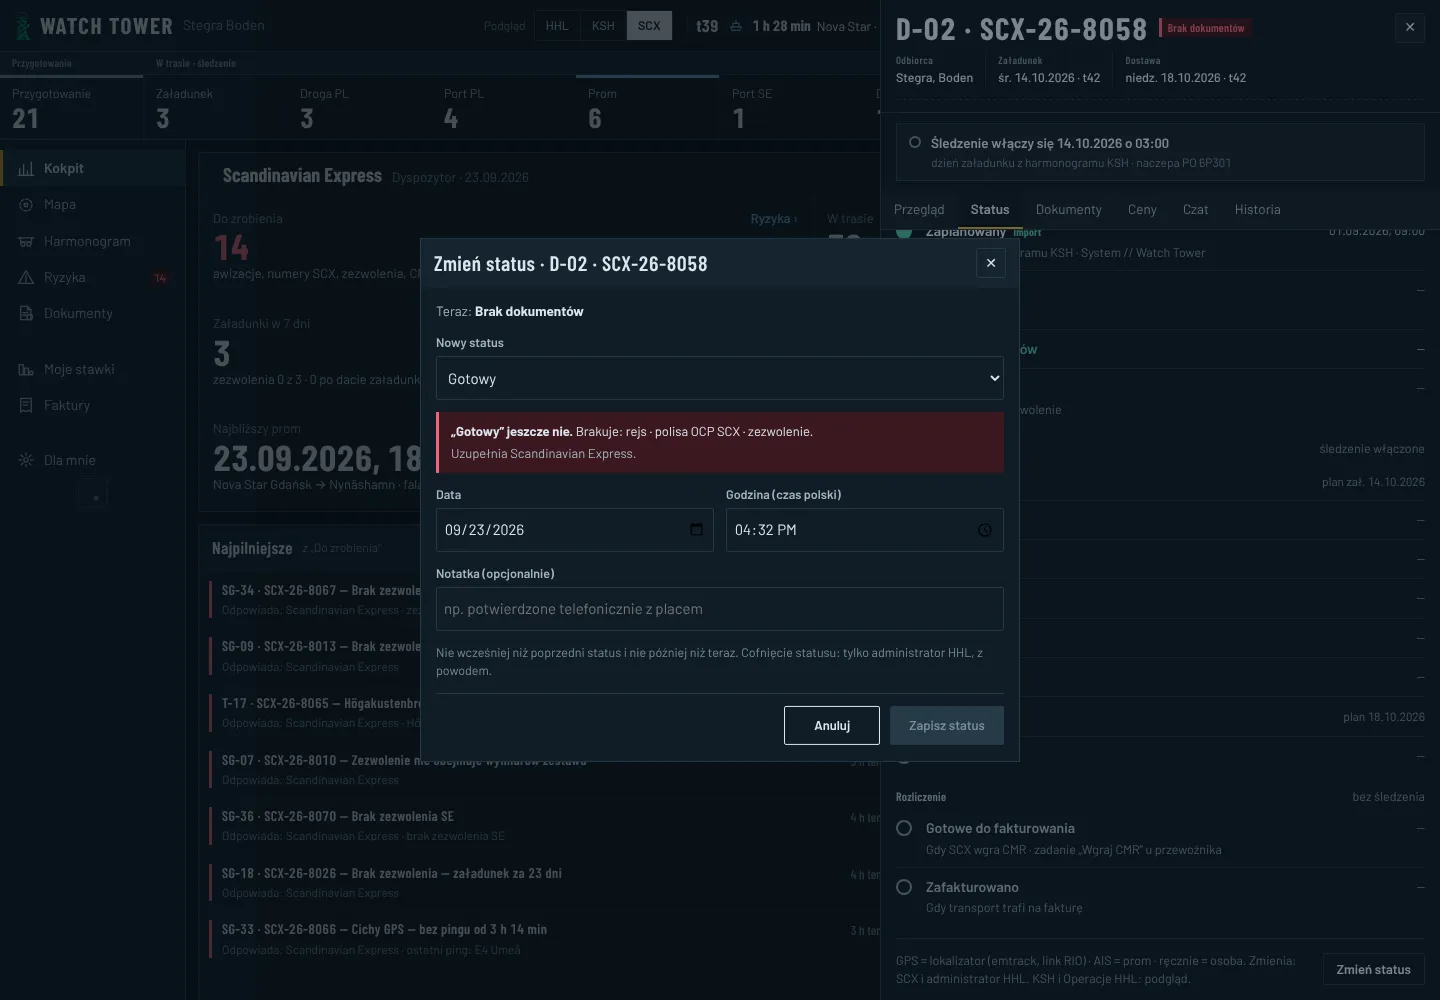
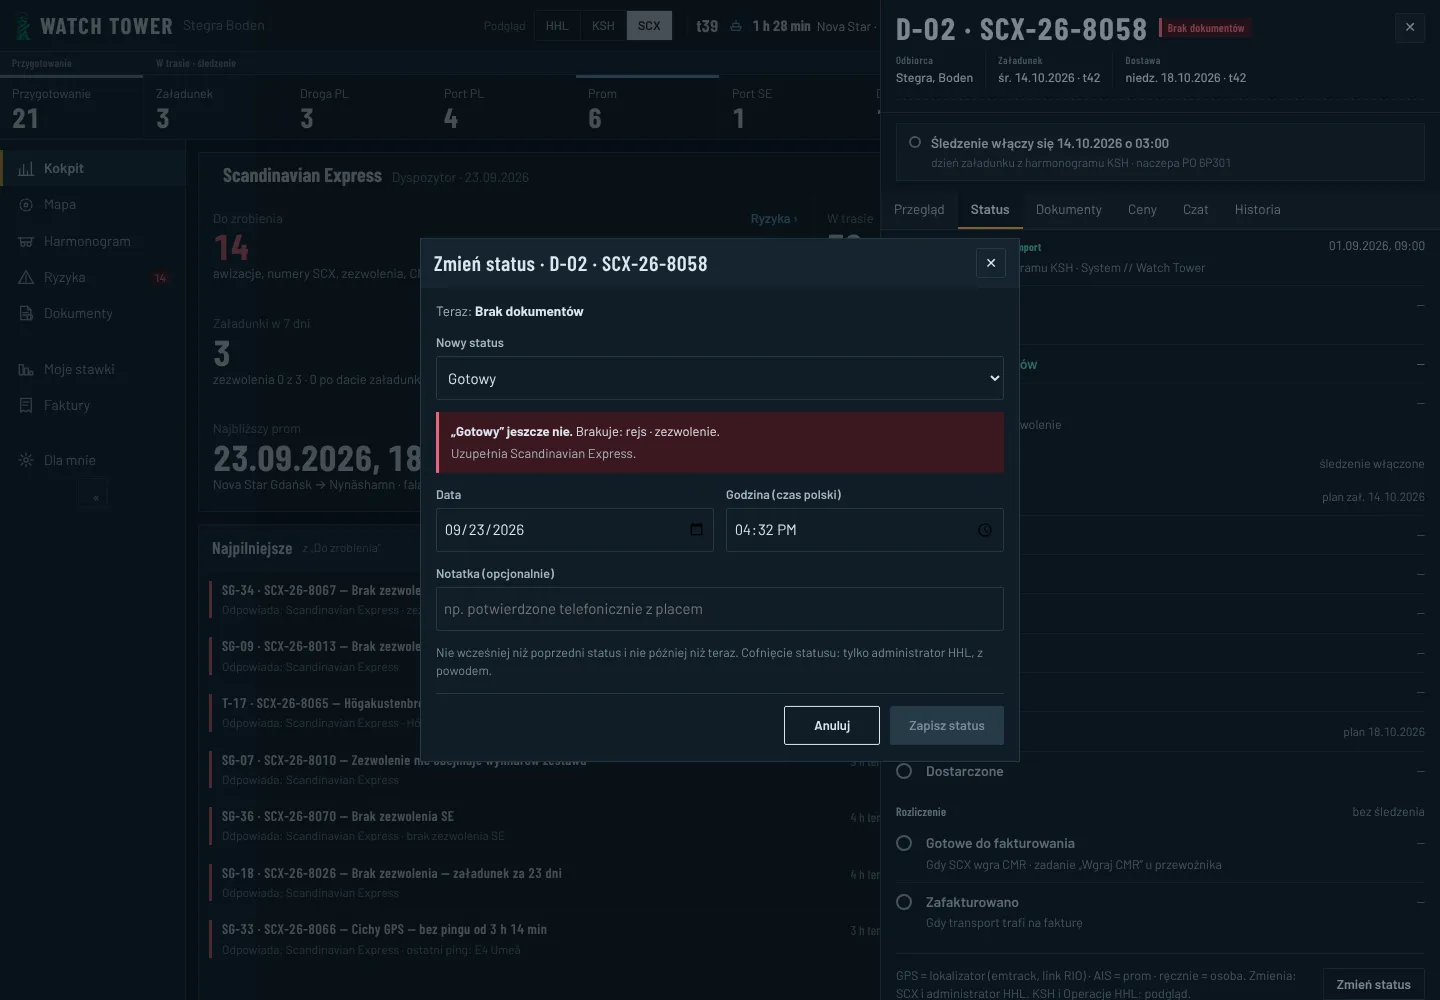
wyglad/W-naprawy-2: poprawki po F7 — rejs w Przeglądzie i Awizacji, import, hasło, „następna próba”
- Przegląd: statek z rezerwacji bez rejsu → „rejs niewybrany — wybiera SCX w awizacji”; „Komplet … rejs”.
- Awizacja: rejsy od późniejszego z okna awizacji i dnia załadunku z planu; rozkład demo do 16.11.
- Braki: „kierowca/telefon/ciągnik odcinka SE” jak w Awizacji; okno „Zmień status” liczy polisę firmy jak panel.
- Import: jedno zdanie o pominiętych (podgląd i po „Zatwierdź”), zera bez zdania, bez „NTG” na sztywno,
  odmiana dat KSH, kolor tylko > 0, krok mapowania po polsku (E21).
- Stan systemu: „następna próba 24.09.2026 o 07:15” z twardą spacją.
- Hasło: litera a–z i cyfra, jak „litery i cyfry” w Supabase Auth (W1); bez nieużywanego auth_pw_short.
- Testy: nowy e2e „rejs znika po wyborze rejsu” (D-02); M10 — nowy rejs poza rozkładem demo; teksty importu.

Claude-Session: https://claude.ai/code/session_01S36qMbEWpRWj55jt4pBR6E

diff --git a/src/views/ScheduleView.tsx b/src/views/ScheduleView.tsx
@@ -7,7 +7,7 @@ import { MAP_FIELDS as MAP_FIELDS_UI, REQUIRED_FIELDS as REQUIRED_FIELDS_UI, typ
 import { useTowerStore } from '../store/useTowerStore';
 import { filterLoads } from '../lib/selectors';
 import { canImportSchedule, filterLoadsForRole } from '../lib/permissions';
-import { t, tp } from '../i18n/messages';
+import { hasKey, t, tp } from '../i18n/messages';
 import {
   delayMinutesVsPlan,
   fmtDateTime,
@@ -34,7 +34,7 @@ import { sailTime } from '../lib/sailView';
 import { effDeparture } from '../lib/sailings';
 import { SUPABASE_AUTH_ENABLED } from '../auth/config';
 import type { ServerImportDraft } from '../data/scheduleImportServer';
-import { standardSkipMessage } from '../lib/standardSkipMessage';
+import { importSkipText, standardSkipMessage } from '../lib/standardSkipMessage';
 import { plPlural } from '../lib/plPlural';
 import { StageBar, StageChip } from '../components/shell/StageBar';
 import { useIsPhone } from '../lib/useIsPhone';
@@ -552,7 +552,7 @@ export function ScheduleView() {
               <ul style={{ fontSize: 12, columns: 2, color: 'var(--ink-3)', margin: '0 0 8px' }}>
                 {mapKeys.map(([k, v]) => (
                   <li key={k}>
-                    <span style={{ color: 'var(--ink)' }}>{v}</span> → {k}
+                    <span style={{ color: 'var(--ink)' }}>{v}</span>{hasKey(locale, `p7_imp_f_${k}`) ? ` → ${t(locale, `p7_imp_f_${k}`)}` : null}
                   </li>
                 ))}
               </ul>
@@ -575,21 +575,17 @@ export function ScheduleView() {
             <>
               {/* wyglad/W-naprawy-2 · A6 + E21: podsumowanie słowami zamiast znaków „+ ~ − ⚠” */}
               <div style={{ fontSize: 13, marginBottom: 6 }} data-import-sum>
-                <span style={{ color: 'var(--go)' }}>{t(locale, 'p7_imp_new')}: {dryRun.added.length}</span>
+                <span style={{ color: dryRun.added.length ? 'var(--go)' : 'var(--ink-3)' }}>{t(locale, 'p7_imp_new')}: {dryRun.added.length}</span>
                 {' · '}
-                <span style={{ color: 'var(--amber-ink)' }}>{t(locale, 'p7_imp_changed')}: {dryRun.changed.length}</span>
+                <span style={{ color: dryRun.changed.length ? 'var(--amber-ink)' : 'var(--ink-3)' }}>{t(locale, 'p7_imp_changed')}: {dryRun.changed.length}</span>
                 {' · '}
                 <span style={{ color: 'var(--ink-3)' }}>{t(locale, 'p7_imp_removed')}: <b data-import-removed-count>{allowRemovals ? dryRun.removalCandidates.length : 0}</b></span>
                 {' · '}
                 <span style={{ color: dryRun.rejected ? 'var(--red)' : 'var(--ink-3)' }}>{t(locale, 'p7_imp_rejected')}: {dryRun.rejected}</span>
               </div>
-              {dryRun.skippedCarrier != null || dryRun.skippedEmpty != null || dryRun.skippedStandard ? (
+              {importSkipText({ carrier: dryRun.skippedCarrier, empty: dryRun.skippedEmpty, standard: dryRun.skippedStandard }) ? (
                 <div style={{ fontSize: 12, color: 'var(--ink-3)', marginBottom: 6 }} data-import-skipped>
-                  {tp(locale, 'p7_imp_skip', { list: [
-                    dryRun.skippedCarrier != null ? tp(locale, 'p7_imp_skip_carrier', { n: dryRun.skippedCarrier }) : null,
-                    dryRun.skippedEmpty != null ? tp(locale, 'p7_imp_skip_empty', { n: dryRun.skippedEmpty }) : null,
-                    dryRun.skippedStandard ? tp(locale, 'p7_imp_skip_standard', { n: dryRun.skippedStandard }) : null,
-                  ].filter(Boolean).join(' · ') })}
+                  {importSkipText({ carrier: dryRun.skippedCarrier, empty: dryRun.skippedEmpty, standard: dryRun.skippedStandard })}
                 </div>
               ) : null}
               {dryRun.datesToCheck ? (
@@ -670,7 +666,7 @@ export function ScheduleView() {
                           allowRemovals ? dryRun.removalCandidates.map((c) => c.code) : [],
                           [],
                         );
-                        const note = standardSkipMessage(draft.meta.accepted, draft.meta.skippedStandard);
+                        const note = standardSkipMessage(draft.meta.accepted, draft.meta.skippedStandard, { carrier: dryRun.skippedCarrier, empty: dryRun.skippedEmpty });
                         setServerNote(
                           res.version == null
                             ? t(locale, 'i1_nochange') + ' · ' + note
@@ -719,7 +715,7 @@ export function ScheduleView() {
             <>
               <span style={{ color: 'var(--go)' }}>{t(locale, 'a6_sch_import_ok')}</span>{' '}
               {dryRun ? (
-                <span data-import-standard style={{ color: 'var(--ink)' }}>{standardSkipMessage(dryRun.accepted, dryRun.skippedStandard)}</span>
+                <span data-import-standard style={{ color: 'var(--ink)' }}>{standardSkipMessage(dryRun.accepted, dryRun.skippedStandard, { carrier: dryRun.skippedCarrier, empty: dryRun.skippedEmpty })}</span>
               ) : null}{' '}
               <button
                 type="button"

diff --git a/tests/w-naprawy-2.test.ts b/tests/w-naprawy-2.test.ts
@@ -4,7 +4,9 @@
 import { describe, expect, it } from 'vitest';
 import { PASSWORD_MIN, passwordOk } from '../src/auth/config';
 import { tp } from '../src/i18n/messages';
+import { readyGapsText } from '../src/lib/p4c';
 import { computeReadyGaps } from '../src/lib/readyGaps';
+import { importSkipText, standardSkipMessage } from '../src/lib/standardSkipMessage';
 import { demoFuelScreen } from '../src/lib/p5bDemo';
 import { demoSources } from '../src/lib/sysDemo';
 import type { Load } from '../src/types';
@@ -23,7 +25,8 @@ describe('C11 — hasło: co najmniej PASSWORD_MIN znaków, litery i cyfry', () 
     expect(passwordOk('a1'.repeat(Math.floor((PASSWORD_MIN - 1) / 2)).slice(0, PASSWORD_MIN - 1))).toBe(false);
   });
   it('komunikat mówi to samo co reguła', () => {
-    expect(tp('pl', 'auth_pw_rule', { n: PASSWORD_MIN })).toMatch(/co najmniej \d+ znak(ów|i)?, w tym litery i cyfry\.$/);
+    expect(tp('pl', 'auth_pw_rule', { n: PASSWORD_MIN })).toMatch(/co najmniej \d+ znak(ów|i)?, w tym litery \(a–z\) i cyfry\.$/);
+    expect(passwordOk('ąęśćżźółńĄĘ1')).toBe(false);
   });
 });
 
@@ -50,6 +53,9 @@ describe('A9 — braki do „Gotowy”: rejs i kierowca SE przy przepięciu', ()
     const l = load({ resources: { driverName: 'Jan Nowak', driverPhone: '+48 600 100 200', tractorPlate: 'PO 1AB', trailerPlate: 'PO 2CD', trailerSwap: true } });
     const awiz = computeReadyGaps(l, []).find((g) => g.kind === 'AWIZ');
     expect(awiz?.items).toEqual(['kierowca SE', 'telefon SE', 'ciągnik SE']);
+    /* F7: na ekranie słowa z okna Awizacja */
+    expect(readyGapsText(computeReadyGaps(l, []), 'pl').list).toContain('awizacja (kierowca odcinka SE, telefon odcinka SE, ciągnik odcinka SE)');
+    expect(tp('pl', 'p4c_ready_ok')).toContain('rejs');
   });
 });
 
@@ -59,11 +65,17 @@ describe('A6 — podsumowanie importu słowami', () => {
     expect(tp('pl', 'p7_imp_head', { ok: 95, total: 153 })).toBe('wczytano 95 z 153 wierszy');
   });
   it('pominięte w jednym zdaniu', () => {
-    const list = [tp('pl', 'p7_imp_skip_carrier', { n: 43 }), tp('pl', 'p7_imp_skip_empty', { n: 15 })].join(' · ');
-    expect(tp('pl', 'p7_imp_skip', { list })).toBe('Pominięte: inny przewoźnik (NTG) — 43 · puste wiersze — 15.');
+    expect(importSkipText({ carrier: 43, empty: 15, standard: 0 })).toBe('Pominięte: inny przewoźnik — 43 · puste wiersze — 15.');
+    /* F7: zera i brak pól — bez zdania; po imporcie to samo zdanie */
+    expect(importSkipText({ carrier: 0, empty: 0, standard: 0 })).toBeNull();
+    expect(importSkipText({})).toBeNull();
+    expect(standardSkipMessage(2, 1)).toBe('Zaimportowano 2 transporty. Pominięte: rozmiar „Standard” (ładunki innej firmy) — 1.');
+    expect(standardSkipMessage(1, 0, { carrier: 0, empty: 0 })).toBe('Zaimportowano 1 transport.');
   });
   it('daty KSH do sprawdzenia', () => {
-    expect(tp('pl', 'p7_imp_dates_check', { n: 7 })).toMatch(/^Daty KSH do sprawdzenia: 7 — wiersze wchodzą/);
+    expect(tp('pl', 'p7_imp_dates_check', { n: 1 })).toMatch(/^1 wiersz wchodzi do harmonogramu z datami KSH do sprawdzenia/);
+    expect(tp('pl', 'p7_imp_dates_check', { n: 3 })).toMatch(/^3 wiersze wchodzą/);
+    expect(tp('pl', 'p7_imp_dates_check', { n: 7 })).toMatch(/^7 wierszy wchodzi/);
   });
 });
 

diff --git a/src/i18n/messages.ts b/src/i18n/messages.ts
@@ -429,7 +429,7 @@ const pl: Dict = {
   p4c_ready_title: '„Gotowy” jeszcze nie.',
   p4c_ready_missing: 'Brakuje: {list}.',
   p4c_ready_who: 'Uzupełnia {who}.',
-  p4c_ready_ok: 'Komplet do „Gotowy”: awizacja, numery HHL i SCX, zezwolenia, polisa.',
+  p4c_ready_ok: 'Komplet do „Gotowy”: awizacja, rejs, numery HHL i SCX, zezwolenia, polisa.',
   p4c_ready_axis: 'Brakuje: {list}',
   p4c_gap_AWIZ: 'awizacja',
   /* wyglad/W-naprawy-2 · A6 (audyt 17.10) + E21: podsumowanie importu pliku KSH słowami */
@@ -440,10 +440,35 @@ const pl: Dict = {
   p7_imp_removed: 'Do usunięcia',
   p7_imp_rejected: 'Odrzucone',
   p7_imp_skip: 'Pominięte: {list}.',
-  p7_imp_skip_carrier: 'inny przewoźnik (NTG) — {n}',
+  p7_imp_skip_carrier: 'inny przewoźnik — {n}',
   p7_imp_skip_empty: 'puste wiersze — {n}',
-  p7_imp_skip_standard: 'rozmiar „Standard” — {n}',
-  p7_imp_dates_check: 'Daty KSH do sprawdzenia: {n} — wiersze wchodzą, a HHL i KSH dostają sprawę w „Do zrobienia”.',
+  p7_imp_skip_standard: 'rozmiar „Standard” (ładunki innej firmy) — {n}',
+  p7_imp_done: 'Zaimportowano {n~transport|transporty|transportów}.',
+  p7_imp_dates_check: '{n~wiersz wchodzi|wiersze wchodzą|wierszy wchodzi} do harmonogramu z datami KSH do sprawdzenia — przy każdym HHL i KSH dostają sprawę w „Do zrobienia”.',
+  /* krok „mapowanie”: pole Watch Tower po polsku zamiast nazwy technicznej (E21); nieznane pole — sama kolumna pliku */
+  p7_imp_f_shipmentCode: 'kod transportu',
+  p7_imp_f_itemType: 'rodzaj ładunku',
+  p7_imp_f_dimensions: 'wymiary ładunku',
+  p7_imp_f_unitWeight: 'waga elementu',
+  p7_imp_f_qty: 'liczba elementów',
+  p7_imp_f_totalWeight: 'waga transportu',
+  p7_imp_f_loadDate: 'data załadunku',
+  p7_imp_f_loadTime: 'godzina załadunku',
+  p7_imp_f_driverName: 'kierowca',
+  p7_imp_f_driverPhone: 'telefon kierowcy',
+  p7_imp_f_orderNo: 'numer zlecenia',
+  p7_imp_f_deliveryDate: 'data dostawy',
+  p7_imp_f_deliveryTime: 'godzina dostawy',
+  p7_imp_f_assemblySeq: 'kolejność montażu',
+  p7_imp_f_carrier: 'przewoźnik',
+  p7_imp_f_tractorPlate: 'ciągnik',
+  p7_imp_f_trailerPlate: 'naczepa',
+  p7_imp_f_scxOrderNo: 'numer zlecenia SCX',
+  p7_imp_f_hhlOrderNo: 'numer zlecenia HHL',
+  p7_imp_f_comment: 'komentarz',
+  p7_imp_f_loadDay: 'dzień załadunku',
+  p7_imp_f_delivDay: 'dzień dostawy',
+  p7_imp_f_lp: 'pomijana',
   p4c_gap_SAILING: 'rejs',
   p4c_gap_PILOTS: 'piloci',
   p4c_gap_ORDER_HHL: 'nr zlecenia HHL',

diff --git a/src/lib/standardSkipMessage.ts b/src/lib/standardSkipMessage.ts
@@ -1,8 +1,23 @@
-/** B-8-IMP: informacja po imporcie, nie ostrzeżenie. X = przyjęte transporty, Y = pominięte STANDARD. */
-import { plPlural } from './plPlural';
+/**
+ * B-8-IMP + wyglad/W-naprawy-2 (A6): informacja po imporcie, nie ostrzeżenie — to samo zdanie co w podglądzie:
+ * „Zaimportowano 2 transporty. Pominięte: inny przewoźnik — 43 · puste wiersze — 15.” Części tylko przy liczbie > 0.
+ */
+import { tp } from '../i18n/messages';
 
-export function standardSkipMessage(imported: number, skipped: number): string {
-  const transports = plPlural(imported, 'transport', 'transporty', 'transportów');
-  const rows = plPlural(skipped, 'wiersz', 'wiersze', 'wierszy');
-  return `Zaimportowano ${imported} ${transports}. Pominięto ${skipped} ${rows} typu STANDARD (ładunki NTG — poza zakresem Watch Tower).`;
+export type ImportSkips = { carrier?: number | null; empty?: number | null; standard?: number | null };
+
+/** „Pominięte: …” albo null, gdy nic nie pominięto (liczby 0 i brak pól nie dają zdania). */
+export function importSkipText(s: ImportSkips): string | null {
+  const parts = [
+    s.carrier ? tp('pl', 'p7_imp_skip_carrier', { n: s.carrier }) : null,
+    s.empty ? tp('pl', 'p7_imp_skip_empty', { n: s.empty }) : null,
+    s.standard ? tp('pl', 'p7_imp_skip_standard', { n: s.standard }) : null,
+  ].filter(Boolean);
+  return parts.length ? tp('pl', 'p7_imp_skip', { list: parts.join(' · ') }) : null;
+}
+
+/** X = przyjęte transporty, Y = pominięte „Standard”; `more` — pozostałe pominięte z parsera (A6). */
+export function standardSkipMessage(imported: number, skipped: number, more: Omit<ImportSkips, 'standard'> = {}): string {
+  const skip = importSkipText({ ...more, standard: skipped });
+  return [tp('pl', 'p7_imp_done', { n: imported }), skip].filter(Boolean).join(' ');
 }

diff --git a/src/components/drawer/PanelOverview.tsx b/src/components/drawer/PanelOverview.tsx
@@ -355,7 +355,9 @@ export function PanelOverview(p: Props) {
   };
   const sailingText = curSailing
     ? `${load.ferry.vessel ?? curSailing.vessel} · ${fmtLocal(effDeparture(curSailing))} → ${fmtLocal(effArrival(curSailing))}${curSailing.status !== 'ZAPLANOWANY' ? ` · ${sailingStatusLabel(curSailing.status, locale)}` : ''}`
-    : load.ferry.vessel ?? null;
+    : null;
+  /* F7 (A9): statek z rezerwacji bez wybranego rejsu — to nie jest przypisany rejs; „rejs” jest w brakach do „Gotowy” */
+  const bookedVessel = curSailing ? null : (load.ferry.vessel ?? '').trim() || null;
   /* „wpisany/brak” (E32 pkt 5) — ten sam stan co pole w oknie Awizacja (E44: zapisany link z serwera albo w zasobach) */
   const linkSet = !!(r.trackingRef ?? '').trim() || !!trackingLinkOf(load, loads, nowIso);
   const fixAwiz = canFixAwizOf(role);
@@ -511,7 +513,9 @@ export function PanelOverview(p: Props) {
           <dt>{pt(locale, 'p7_row_link')}</dt>
           <dd>{linkSet ? <span className="po-ok">{pt(locale, 'p7_link_set')}</span> : <span className="po-miss">{awiz === 'none' ? '—' : pt(locale, 'p7_link_none')}</span>}</dd>
           <dt>{pt(locale, 'p7_row_sailing')}</dt>
-          <dd data-ferry-row>{sailingText ? <span data-content>{sailingText}</span> : <span className="po-muted">{pt(locale, awiz === 'none' ? 'p7_sail_pick' : 'p7_sail_none')}</span>}</dd>
+          <dd data-ferry-row>{sailingText ? <span data-content>{sailingText}</span> : bookedVessel ? (
+            <><span data-content>{bookedVessel}</span>{' · '}<span className="po-miss" data-sail-unpicked>{pt(locale, 'p7_sail_unpicked')}</span></>
+          ) : <span className="po-muted">{pt(locale, awiz === 'none' ? 'p7_sail_pick' : 'p7_sail_none')}</span>}</dd>
           {pilotsReq ? (
             <>
               <dt>{pt(locale, 'p7_pilot_pl')}</dt>

diff --git a/tests/e8-phone-gate.spec.ts b/tests/e8-phone-gate.spec.ts
@@ -2220,6 +2220,27 @@ test.describe('wyglad/P4-c — link śledzenia (E44), „Gotowy” (L6, L9), spr
     await expect(modal.locator('[data-status-ready-ok]')).toBeVisible();
   });
 
+  test('komputer SCX: „rejs” w brakach do „Gotowy” znika po wyborze rejsu w Awizacji (D-02; A9, W-naprawy-2)', async ({ page }) => {
+    await page.setViewportSize({ width: 1440, height: 900 });
+    await boot(page, 'SCX');
+    await openCode(page, 'D-02');
+    await expect(page.locator('.drawer [data-sail-unpicked]')).toHaveText('rejs niewybrany — wybiera SCX w awizacji');
+    await tab(page, 1);
+    await expect(page.locator('.drawer [data-axis-row="READY"] .sax-sub')).toContainText('rejs');
+    await tab(page, 0);
+    await page.locator('.drawer [data-awiz-open]').click();
+    const sel = page.locator('[data-awiz-sailing]');
+    await expect(sel).toBeVisible();
+    const value = await sel.locator('option').evaluateAll((o) => (o as HTMLOptionElement[]).map((x) => x.value).find((v) => !!v) ?? '');
+    expect(value).not.toBe('');
+    await sel.selectOption(value);
+    await page.locator('[data-awiz-save]').click();
+    await expect(page.locator('.drawer [data-sail-unpicked]')).toHaveCount(0);
+    await tab(page, 1);
+    await expect(page.locator('.drawer [data-axis-row="READY"] .sax-sub')).toContainText('Brakuje:');
+    await expect(page.locator('.drawer [data-axis-row="READY"] .sax-sub')).not.toContainText('rejs');
+  });
+
   test('komputer: sprawa „czy dostarczono?” (D-01) — SCX odpowiada, „Nie” zamyka bez zmiany statusu; HHL widzi, na kogo czeka', async ({ page }) => {
     await page.setViewportSize({ width: 1440, height: 900 });
     await boot(page, 'SCX');

diff --git a/tests/pl-plural.test.ts b/tests/pl-plural.test.ts
@@ -25,18 +25,11 @@ describe('PL-PLURAL', () => {
   });
 
   it('import: 2 transporty i 2 wiersze, 1 i 5 bez zmiany sensu', () => {
-    expect(standardSkipMessage(2, 2)).toBe(
-      'Zaimportowano 2 transporty. Pominięto 2 wiersze typu STANDARD (ładunki NTG — poza zakresem Watch Tower).',
-    );
-    expect(standardSkipMessage(1, 1)).toBe(
-      'Zaimportowano 1 transport. Pominięto 1 wiersz typu STANDARD (ładunki NTG — poza zakresem Watch Tower).',
-    );
-    expect(standardSkipMessage(5, 12)).toBe(
-      'Zaimportowano 5 transportów. Pominięto 12 wierszy typu STANDARD (ładunki NTG — poza zakresem Watch Tower).',
-    );
-    expect(standardSkipMessage(22, 25)).toBe(
-      'Zaimportowano 22 transporty. Pominięto 25 wierszy typu STANDARD (ładunki NTG — poza zakresem Watch Tower).',
-    );
+    /* wyglad/W-naprawy-2 (F7): to samo zdanie co w podglądzie importu, bez wielkich liter */
+    expect(standardSkipMessage(2, 2)).toBe('Zaimportowano 2 transporty. Pominięte: rozmiar „Standard” (ładunki innej firmy) — 2.');
+    expect(standardSkipMessage(1, 1)).toBe('Zaimportowano 1 transport. Pominięte: rozmiar „Standard” (ładunki innej firmy) — 1.');
+    expect(standardSkipMessage(5, 12)).toBe('Zaimportowano 5 transportów. Pominięte: rozmiar „Standard” (ładunki innej firmy) — 12.');
+    expect(standardSkipMessage(22, 0)).toBe('Zaimportowano 22 transporty.');
   });
 
   it('tp po polsku odmienia; bez słownika EN (8A) — tekst i odmiana po polsku', () => {

diff --git a/tests/i1-import-ui.local.spec.ts b/tests/i1-import-ui.local.spec.ts
@@ -39,12 +39,12 @@ test('HHL importuje pełny harmonogram przez interfejs (podgląd z bazy, zapis, 
   await expect(page.locator('[data-import-server]')).toContainText('Podgląd z bazy', { timeout: 20000 });
   await expect(page.locator('[data-import-server]')).toContainText('Scandinavian Express');
   await page.getByRole('button', { name: 'Podgląd zmian' }).click();
-  await expect(page.getByText('+5')).toBeVisible();
+  await expect(page.locator('[data-import-sum]')).toContainText('Nowe: 5');
   expect(psql('select count(*) from loads')).toBe('0');
   await page.getByRole('button', { name: 'Zatwierdź' }).click();
   await expect(page.locator('[data-import-server]')).toContainText('Zapisano w bazie: wersja 1', { timeout: 20000 });
   await expect(page.locator('tr[data-load]')).toHaveCount(5, { timeout: 20000 });
-  await expect(page.locator('[data-import-standard]')).toContainText('Pominięto 3 wiersze typu STANDARD');
+  await expect(page.locator('[data-import-standard]')).toContainText('Pominięte: rozmiar „Standard” (ładunki innej firmy) — 3.');
   await expect(page.locator('tr[data-load]', { hasText: 'STD-01' })).toHaveCount(0);
   await expect(page.getByText(/wersja 1 · .* · ksh-harmonogram-synthetic\.xlsx/)).toBeVisible();
   expect(psql(`select count(*)||'/'||(select count(*) from shipment_items)||'/'||(select count(*) from schedule_imports where file_path like 'harmonogramy/%' and length(file_hash)=64) from loads`)).toBe('5/5/1');

diff --git a/tests/etap4-ui.spec.ts b/tests/etap4-ui.spec.ts
@@ -372,11 +372,12 @@ test.describe('M10 — rejsy i automat statusów', () => {
     // dodanie
     await page.locator('[data-sail-new]').click()
     const form = page.locator('[data-sail-form]')
-    await form.locator('input[name="dep"]').fill('2026-10-20T18:00')
-    await form.locator('input[name="arr"]').fill('2026-10-20T17:00')
+    /* W-naprawy-2: rozkład demo do 16.11 — nowy rejs poza nim (20.10 18:00 jest już w rozkładzie → „DUPLICATE”) */
+    await form.locator('input[name="dep"]').fill('2026-11-20T18:00')
+    await form.locator('input[name="arr"]').fill('2026-11-20T17:00')
     await form.locator('[data-sail-submit]').click()
     await expect(page.locator('[data-sail-error]')).toContainText('po odejściu')
-    await form.locator('input[name="arr"]').fill('2026-10-21T12:00')
+    await form.locator('input[name="arr"]').fill('2026-11-21T12:00')
     await form.locator('[data-sail-submit]').click()
     await expect(page.locator('[data-sail-form]')).toHaveCount(0)
     // opóźnienie pierwszego przyszłego rejsu

diff --git a/src/components/options/StatusScreen.tsx b/src/components/options/StatusScreen.tsx
@@ -44,10 +44,12 @@ function sinceText(locale: Locale, r: SourceRow, nowIso: string): string | null 
   return syp(locale, 'sys_since_at', { t: dt(r.since) });
 }
 
-/** A8: „następna próba o 21:05” (inny dzień — z datą); tylko przy stanie wymagającym uwagi i czasie w przyszłości. */
+/** A8: „następna próba o 21:05”, inny dzień „następna próba 24.09.2026 o 07:15”; tylko przy stanie wymagającym uwagi i czasie w przyszłości. */
 function nextTryText(locale: Locale, r: SourceRow, nowIso: string): string | null {
   if (!r.nextTryAt || !ATTN.has(r.state) || Date.parse(r.nextTryAt) <= Date.parse(nowIso)) return null;
-  return syp(locale, 'sys_next_try', { t: sameDay(r.nextTryAt, nowIso) ? hm(r.nextTryAt) : dt(r.nextTryAt) });
+  if (sameDay(r.nextTryAt, nowIso)) return syp(locale, 'sys_next_try', { t: hm(r.nextTryAt) });
+  const [d, t] = dt(r.nextTryAt).split(', ');
+  return syp(locale, 'sys_next_try_day', { d, t });
 }
 
 function lastText(r: SourceRow, nowIso: string): string {

diff --git a/src/lib/sailings.ts b/src/lib/sailings.ts
@@ -75,8 +75,10 @@ export function checkSailingDraft(d: SailingDraft, all: Sailing[]): SailingDraft
  * Rozkład startowy demo (DANE_STARTOWE): Gdańsk → Nynäshamn codziennie 18:00 czasu PL, ~18 h rejsu,
  * na zmianę Wawel / Nova Star; SG-32 — odwołany rejs Nova Star 24.09 20:00 (scenariusz z danych demo).
  * Godziny orientacyjne — rzeczywisty rozkład cargo wg ZRODLA_DANYCH.md (M12 / decyzja właściciela).
+ * W-naprawy-2 (A9): 60 dni (do 16.11) — rozkład obejmuje wszystkie załadunki demo, więc SCX może wybrać rejs
+ * w Awizacji (wcześniej 25 dni, do 12.10: transporty z załadunkiem później nie miały żadnego rejsu do wyboru).
  */
-export function buildSeedSailings(fromLocal = '2026-09-18', days = 25): Sailing[] {
+export function buildSeedSailings(fromLocal = '2026-09-18', days = 60): Sailing[] {
   const out: Sailing[] = [];
   const start = Date.parse(`${fromLocal}T18:00:00+02:00`);
   for (let i = 0; i < days; i++) {

diff --git a/src/lib/awizacjaState.ts b/src/lib/awizacjaState.ts
@@ -41,8 +41,11 @@ export function earliestFerryDepartureMs(
   operator: FerryOperatorId = 'POLFERRIES',
 ): number {
   const fromWindow = load.awizacja.loadWindowEnd ?? load.awizacja.loadWindowStart;
-  const base = fromWindow ?? (load.plannedLoadDate ? `${load.plannedLoadDate}T06:00:00+02:00` : null);
-  const t = base ? Date.parse(base) : NaN;
+  const fromPlan = load.plannedLoadDate ? `${load.plannedLoadDate}T06:00:00+02:00` : null;
+  /* W-naprawy-2 (F7): późniejsze z okna awizacji i dnia załadunku z planu KSH — po przesunięciu załadunku przez KSH
+     stare okno awizacji nie podsuwa rejsów sprzed załadunku */
+  const cands = [fromWindow, fromPlan].map((x) => (x ? Date.parse(x) : NaN)).filter(Number.isFinite);
+  const t = cands.length ? Math.max(...cands) : NaN;
   if (!Number.isFinite(t)) return Date.now();
   const h = operator === 'STENA' ? STENA_PORT_CLEARANCE_H : PORT_CLEARANCE_H;
   return t + h * 36e5;
